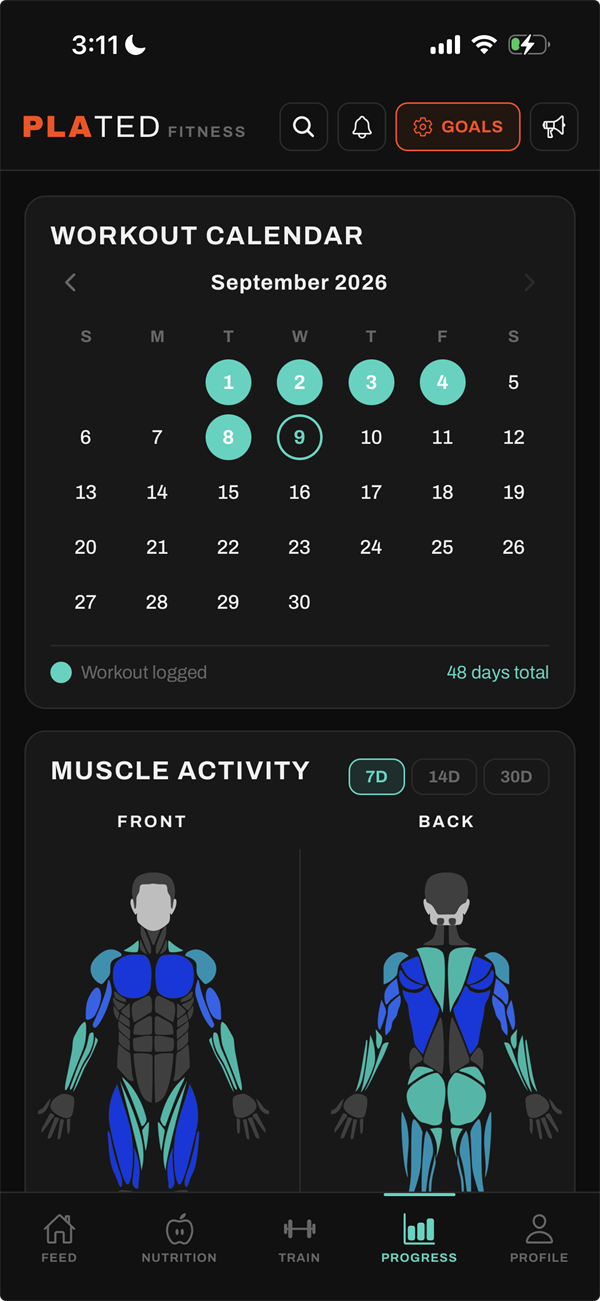
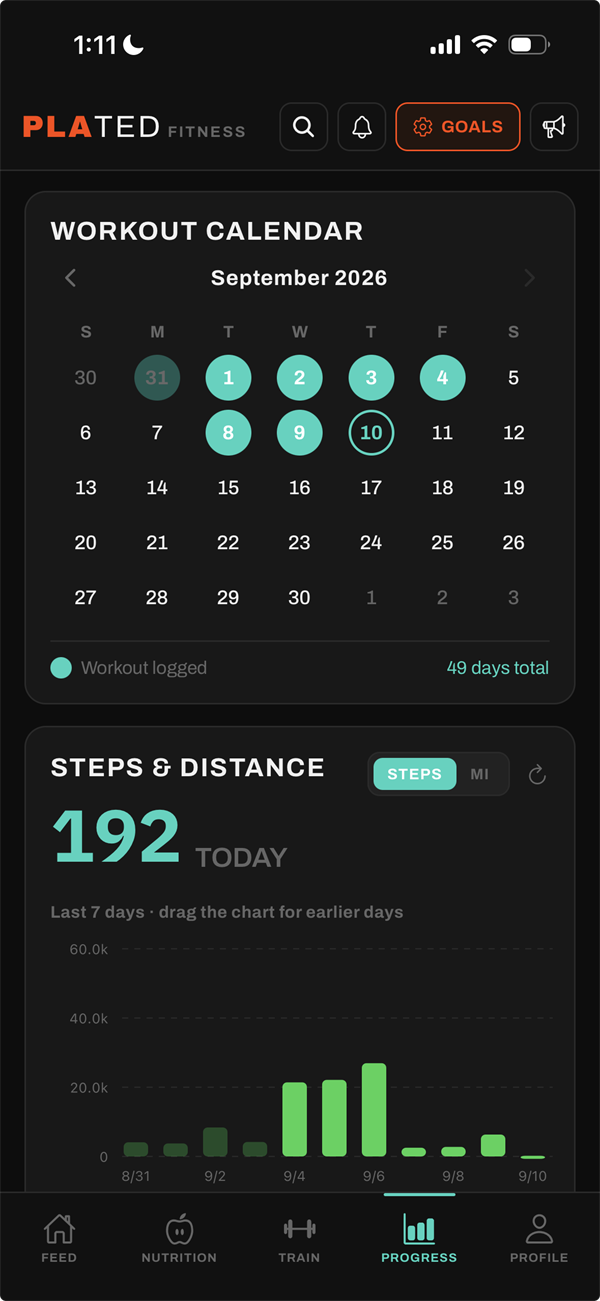
Align the site with the app and the App Store listing
Three things the review audit turned up on this side.

The Pro list named seven features while the paywall sells twelve. It now
names all of them, so someone comparing the site to the app's paywall or to
the store description finds the same list in each.

The privacy policy said the Advertising Identifier is not used at all, while
the App Store privacy label declares a device identifier under third-party
advertising, which is what any app carrying the AdMob SDK has to declare.
Reviewers compare the two. It now says the identifier is never used for
personalised advertising and explains why the label lists one.

The providers table left out FatSecret, the licensed food and restaurant
database the app has queried through its own server since restaurant search
shipped. It has a row now.

The Progress tour image is regenerated from the current capture — calendar,
then steps, the order the tab has had since September — and its alt text
describes that picture instead of the old one. Dates bumped.

diff --git a/privacy/index.html b/privacy/index.html
@@ -33,7 +33,7 @@
 <main>
 
 <h1>Privacy Policy</h1>
-<p class="sub">Plated Fitness &middot; Last updated 10 September 2026</p>
+<p class="sub">Plated Fitness &middot; Last updated 23 September 2026</p>
 
 <p>Plated Fitness (&ldquo;Plated&rdquo;, &ldquo;we&rdquo;, &ldquo;us&rdquo;) is a nutrition and training app. This policy explains what we collect, why, who else sees it, and how you get rid of it. It covers the Plated iOS and Android apps and the accounts behind them.</p>
 
@@ -89,7 +89,7 @@
   <li><strong>Push notification token</strong> &mdash; a device identifier issued by Apple or Google, used only to deliver notifications you have opted into.</li>
   <li><strong>Basic request metadata</strong> &mdash; IP address and timestamps are processed by our hosting provider as part of serving requests, and used to enforce rate limits and detect abuse.</li>
 </ul>
-<p>Plated contains no analytics or tracking SDKs. We do not track you across other companies&rsquo; apps or websites, and we do not use the Advertising Identifier.</p>
+<p>Plated contains no analytics or tracking SDKs. We do not track you across other companies&rsquo; apps or websites, and we never use the Advertising Identifier for personalised advertising. Our App Store privacy label lists a device identifier under third-party advertising because the ad SDK is present on the free plan; the next section says exactly what it receives and what it does not.</p>
 
 <h3>Advertising on the free plan</h3>
 <p>If you use Plated without a Pro subscription, small banner advertisements appear on the Feed, Nutrition and Progress screens. They are served by Google AdMob and are <strong>non-personalised</strong>: we request ads that are not based on your behaviour or interests, and we never ask iOS for permission to track you. To serve and measure an ad, Google receives a device identifier that is not your Advertising Identifier, your IP address (from which it may infer an approximate location), and the fact that an ad was shown or tapped. Google does not receive your name, email address, food or workout logs, or anything from Apple Health. Advertising is removed entirely by subscribing to Plated Pro. Users in the European Economic Area and the United Kingdom are shown a consent form before any ad is requested, and can revisit that choice at any time from Profile &rarr; Settings.</p>
@@ -111,6 +111,7 @@
   <tr><th>Provider</th><th>What it handles</th></tr>
   <tr><td>Supabase</td><td>Our database, authentication, file storage and server functions. Nearly all your data lives here.</td></tr>
   <tr><td>Google (Gemini API)</td><td>Powers the AI label scanner, AI food lookup, and the first-pass triage of reported content. Receives the photo or text of the item being analysed. Not used to train Google&rsquo;s models.</td></tr>
+  <tr><td>FatSecret</td><td>Licensed food and restaurant nutrition database, queried by search term through our own server. It receives the search query, not your identity.</td></tr>
   <tr><td>Open Food Facts, USDA FoodData Central</td><td>Public food databases we query by barcode or search term. They receive the search query, not your identity.</td></tr>
   <tr><td>Expo</td><td>Delivers push notifications and app updates.</td></tr>
   <tr><td>Google AdMob</td><td>Serves the non-personalised banner ads shown on the free plan. Receives a device identifier, IP address and ad interaction data; see &ldquo;Advertising on the free plan&rdquo; above. Not used if you subscribe to Pro.</td></tr>
@@ -147,7 +148,7 @@
 <h2>12. Contact</h2>
 <p>Questions, requests, or complaints: <a href="mailto:support@plated-fitness.com">support@plated-fitness.com</a>.</p>
 
-<footer>Plated Fitness &middot; Privacy Policy &middot; Last updated 10 September 2026</footer>
+<footer>Plated Fitness &middot; Privacy Policy &middot; Last updated 23 September 2026</footer>
 
 </main>
 </body>

diff --git a/index.html b/index.html
@@ -406,7 +406,7 @@
             A calendar of every day you trained, steps and distance from Apple Health, and a
             heatmap of which muscles your last week actually hit &mdash; and which it missed.
           </p>
-          <div class="phone tour-inline"><img src="/assets/screens/progress.png" alt="Plated's Progress tab: a September workout calendar with trained days marked and 48 days total, above a front-and-back muscle activity heatmap." width="600" height="1301" loading="lazy"></div>
+          <div class="phone tour-inline"><img src="/assets/screens/progress.png" alt="Plated&rsquo;s Progress tab: a September workout calendar with trained days marked and 49 days total, above a Steps &amp; Distance card showing today&rsquo;s count and a seven-day bar chart." width="600" height="1301" loading="lazy"></div>
         </article>
 
         <article class="tour-step" data-shot="profile">
@@ -531,9 +531,13 @@
         <ul>
           <li>AI label scanner and food lookup</li>
           <li>Fill My Macros dinner suggestions</li>
+          <li>Calorie calculator</li>
+          <li>Daily micronutrients against the FDA Daily Value</li>
           <li>Progressive overload suggestions</li>
           <li>Heart-rate tracking</li>
           <li>Training analytics — muscle heatmap and per-exercise progression charts</li>
+          <li>Save workouts and exercises from the feed into your library</li>
+          <li>Send a food or recipe to a friend</li>
           <li>Unlimited saved workout templates</li>
           <li>No ads</li>
         </ul>
